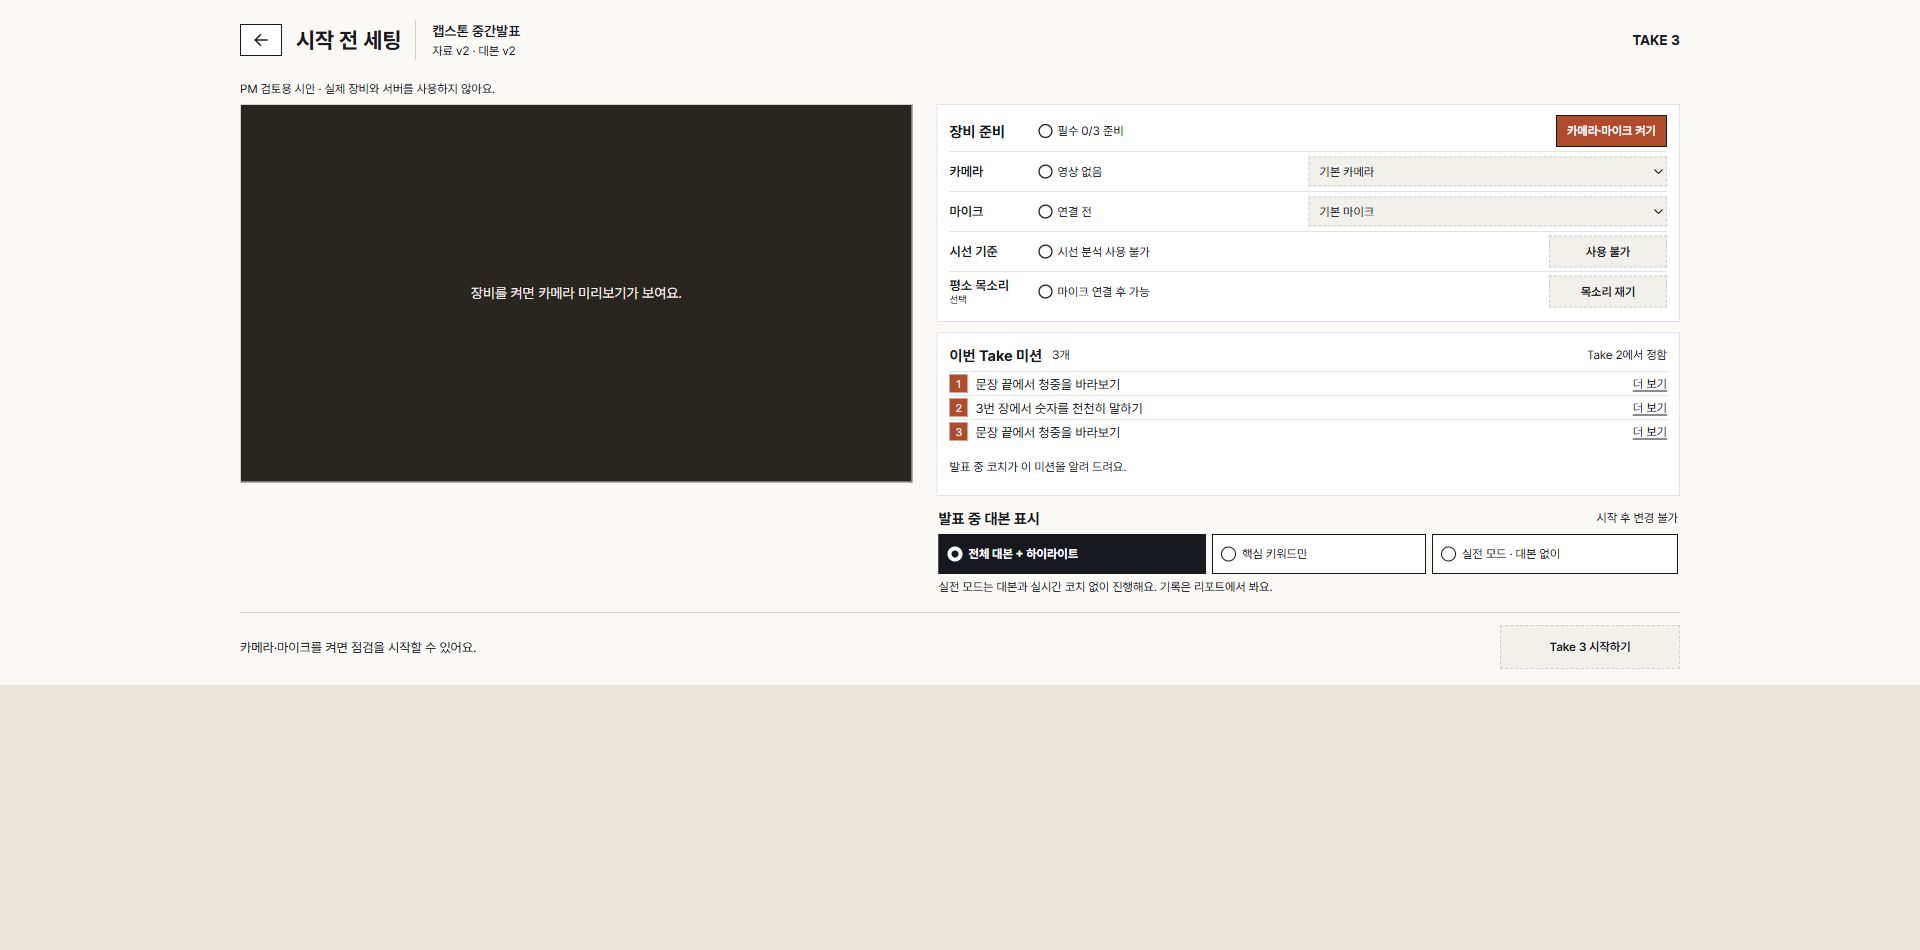
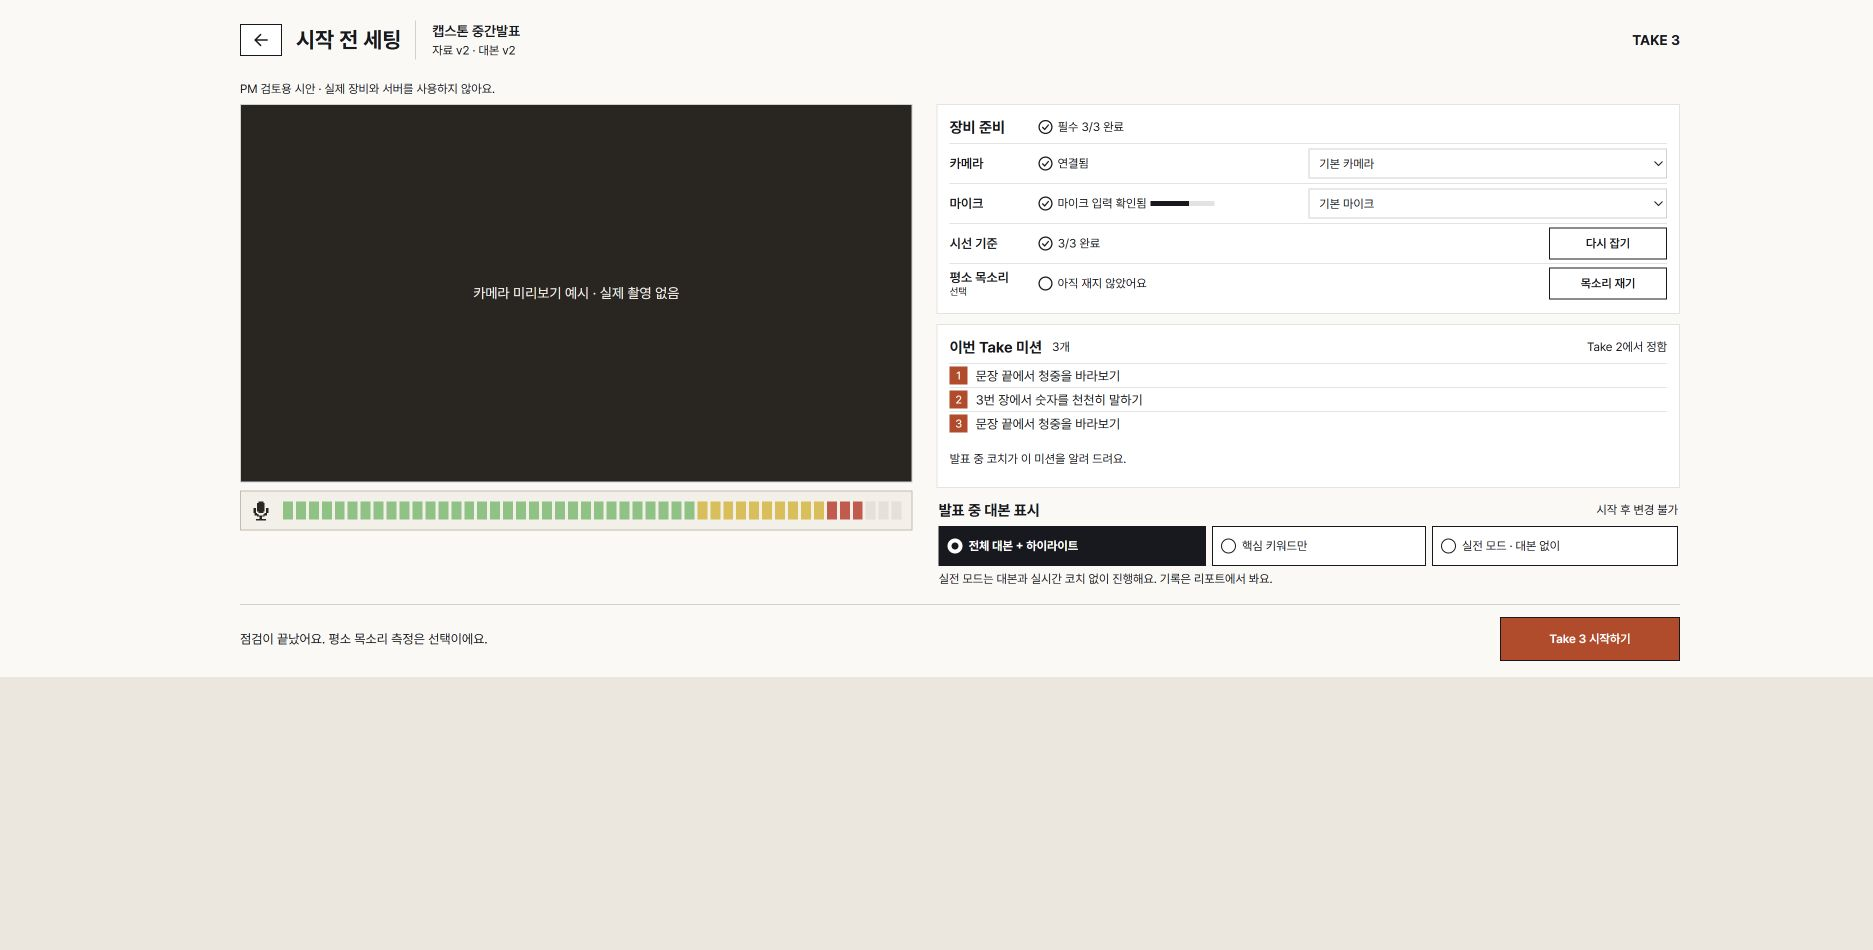
docs(fe): 준비 화면의 오디오 입력 레벨미터 시안을 추가한다

diff --git a/docs/fe/design/src/catalog.ts b/docs/fe/design/src/catalog.ts
@@ -286,6 +286,12 @@ const productScreens: GuideScreen[] = [
         '시안: 같은 폭의 선택창과 전체 이름 도움말을 확인한다.',
       ),
       state(
+        'audio-low',
+        '오디오 입력 작음',
+        '시안: 카메라 아래 미터의 앞쪽 일부만 채우는 작은 입력 예시.',
+      ),
+      state('audio-high', '오디오 입력 큼', '시안: 믹서형 초록·노랑·빨강까지 채우는 큰 입력 예시.'),
+      state(
         'exam',
         '실전 모드',
         '시안: 대본과 실시간 코치가 없음을 알리고 실전 화면 샘플로 이동한다.',
@@ -297,12 +303,15 @@ const productScreens: GuideScreen[] = [
       '장비 행은 항목명 → 원형 상태 표시·설명 → 필요한 조작부다. 선택/상태/버튼을 공통 4열로 강제하지 않는다.',
       '카메라와 마이크 선택창은 박스 중앙부터 오른쪽 끝까지 같은 폭이다. 아래 버튼은 118px로 짧게 두고 오른쪽 끝을 맞춘다.',
       '필수 준비 수는 제목 옆, 카메라·마이크 켜기는 오른쪽 위에 둔다. 평소 목소리는 선택이라고 표시한다.',
+      '카메라 바로 아래에 같은 폭의 낮은 오디오 입력 미터를 둔다. panel 면·얇은 line-strong 선·작은 픽셀 마이크 아이콘과 같은 높이의 세그먼트 한 줄만 사용한다. 제목·상태 글자·숫자·배지·조절 손잡이는 없다.',
+      '오디오 미터의 믹서형 초록→노랑→빨강은 형광 느낌만 줄인 시안 전용 제안색이다. 시선 전용 gaze 색·전역 토큰을 재사용하거나 바꾸지 않는다. 입력 예시는 상태 선택으로 바뀌고 자동 애니메이션은 없다.',
       '미션은 3개씩, 일반 카드 높이는 노트북 156px·데스크톱 164px다. 빈 미션 행은 만들지 않는다. 실제 잘릴 때만 더 보기로 전문을 연다.',
       '대본 표시 3개는 장비 연결 전에도 선택할 수 있다. 시작 중 고정 예시에서는 장치와 대본 표시를 잠근다.',
       '모든 상태는 독립 fixture다. 카메라·마이크·음성 측정·시선 보정·API·Take 생성을 실행하지 않는다. 시작은 기존 설계서 무대 샘플로만 이동한다.',
     ],
     components: [
       'PrepareDraftFrame',
+      'PrepareDraftAudioMeter',
       'PrepareDraftCheckCard',
       'PrepareDraftMissionCard',
       'PrepareDraftScriptMode',

diff --git a/docs/fe/design/src/screens/prepare-draft.css b/docs/fe/design/src/screens/prepare-draft.css
@@ -86,6 +86,55 @@
   width: 100%;
   aspect-ratio: 16 / 9;
 }
+.prepare-draft-camera-column {
+  display: flex;
+  min-width: 0;
+  flex-direction: column;
+  gap: 8px;
+}
+/* 승인된 입력 미터 제안색만 이 시안에 한정한다. 시선 상태색·전역 토큰과 별개다. */
+.prepare-draft-audio-meter {
+  --prepare-audio-panel: #f5f0e9;
+  --prepare-audio-line: #c6bcac;
+  --prepare-audio-ink: #2a2723;
+  --prepare-audio-off: #e8e1d7;
+  --prepare-audio-green: #78c57f;
+  --prepare-audio-amber: #e4bf45;
+  --prepare-audio-brick: #da5248;
+  display: flex;
+  width: 100%;
+  height: 40px;
+  align-items: center;
+  gap: 12px;
+  border: 1px solid var(--prepare-audio-line);
+  background: var(--prepare-audio-panel);
+  color: var(--prepare-audio-ink);
+  padding: 8px 10px;
+}
+.prepare-draft-audio-meter > svg {
+  flex-shrink: 0;
+}
+.prepare-draft-audio-track {
+  display: grid;
+  min-width: 0;
+  height: 18px;
+  flex: 1;
+  grid-template-columns: repeat(48, minmax(0, 1fr));
+  gap: 3px;
+  background: var(--prepare-audio-panel);
+}
+.prepare-draft-audio-track > span {
+  background: var(--prepare-audio-off);
+}
+.prepare-draft-audio-track > [data-active='true'][data-band='green'] {
+  background: var(--prepare-audio-green);
+}
+.prepare-draft-audio-track > [data-active='true'][data-band='amber'] {
+  background: var(--prepare-audio-amber);
+}
+.prepare-draft-audio-track > [data-active='true'][data-band='brick'] {
+  background: var(--prepare-audio-brick);
+}
 .prepare-draft-controls {
   display: flex;
   min-width: 0;

diff --git a/docs/fe/design/src/screens/PrepareLayoutDraft.tsx b/docs/fe/design/src/screens/PrepareLayoutDraft.tsx
@@ -3,6 +3,7 @@ import { PrepareDraftCheckCard } from '@/ui/PrepareDraftCheckCard';
 import { PrepareDraftFrame } from '@/ui/PrepareDraftFrame';
 import { PrepareDraftMissionCard } from '@/ui/PrepareDraftMissionCard';
 import { PrepareDraftScriptMode } from '@/ui/PrepareDraftScriptMode';
+import { PrepareDraftAudioMeter } from '@/ui/PrepareDraftAudioMeter';
 import type { ScriptMode } from '@/ui/ScriptModeChoice';
 import { prepareDraftFixture } from './prepareDraftFixtures';
 import { PITCH, type Navigate } from './shared';
@@ -86,12 +87,15 @@ function Draft({
         PM 검토용 시안 · 실제 장비와 서버를 사용하지 않아요.
       </p>
       <div className="prepare-draft-content">
-        <div className="prepare-draft-camera prepare-draft-camera-example">
-          <p>
-            {camera
-              ? '카메라 미리보기 예시 · 실제 촬영 없음'
-              : '장비를 켜면 카메라 미리보기가 보여요.'}
-          </p>
+        <div className="prepare-draft-camera-column">
+          <div className="prepare-draft-camera prepare-draft-camera-example">
+            <p>
+              {camera
+                ? '카메라 미리보기 예시 · 실제 촬영 없음'
+                : '장비를 켜면 카메라 미리보기가 보여요.'}
+            </p>
+          </div>
+          <PrepareDraftAudioMeter level={mic ? fixture.audioLevel : 0} />
         </div>
         <div className="prepare-draft-controls">
           <PrepareDraftCheckCard

diff --git a/docs/fe/design/src/ui/PrepareDraftAudioMeter.tsx b/docs/fe/design/src/ui/PrepareDraftAudioMeter.tsx
@@ -1,0 +1,36 @@
+/** 독립 시안의 입력 레벨 표시. 실제 마이크를 열거나 사용자가 음량을 조절하지 않는다. */
+export function PrepareDraftAudioMeter({ level }: { level: number }) {
+  const active = Math.round(Math.min(1, Math.max(0, level)) * 48);
+  return (
+    <div
+      className="prepare-draft-audio-meter"
+      role="meter"
+      aria-label="오디오 입력 레벨 예시"
+      aria-valuemin={0}
+      aria-valuemax={100}
+      aria-valuenow={Math.round((active / 48) * 100)}
+    >
+      <svg
+        width="20"
+        height="20"
+        viewBox="0 0 16 16"
+        fill="currentColor"
+        shapeRendering="crispEdges"
+        aria-hidden="true"
+      >
+        <path d="M6 1h4v1h1v7h-1v1H6V9H5V2h1ZM2 6h2v4h1v1h1v1h4v-1h1v-1h1V6h2v4h-1v2h-2v1H9v2h3v1H4v-1h3v-2H5v-1H3v-2H2Z" />
+      </svg>
+      <div className="prepare-draft-audio-track" aria-hidden="true">
+        {Array.from({ length: 48 }, (_, index) => (
+          <span key={index} data-band={band(index)} data-active={index < active} />
+        ))}
+      </div>
+    </div>
+  );
+}
+
+function band(index: number) {
+  if (index < 32) return 'green';
+  if (index < 42) return 'amber';
+  return 'brick';
+}

diff --git a/docs/fe/design/src/PrepareLayoutDraft.test.tsx b/docs/fe/design/src/PrepareLayoutDraft.test.tsx
@@ -159,3 +159,26 @@ it('shows start locks and exam navigation without starting a product take', asyn
   await click('Take 3 실전 모드로 시작');
   expect(navigate).toHaveBeenCalledWith('stage', 'exam');
 });
+
+it('fills and clears one row of equal segments from left to right using example input only', async () => {
+  for (const [state, active] of [
+    ['audio-low', 12],
+    ['audio-high', 45],
+    ['audio-low', 12],
+    ['mic-error', 0],
+  ] as const) {
+    await render(state);
+    const meter = host.querySelector('[role="meter"]')!;
+    const segments = [...meter.querySelectorAll('.prepare-draft-audio-track > span')];
+    expect(segments).toHaveLength(48);
+    expect(segments.map((segment) => segment.getAttribute('data-active'))).toEqual(
+      segments.map((_, index) => String(index < active)),
+    );
+    expect(meter.querySelectorAll('[data-band="green"]')).toHaveLength(32);
+    expect(meter.querySelectorAll('[data-band="amber"]')).toHaveLength(10);
+    expect(meter.querySelectorAll('[data-band="brick"]')).toHaveLength(6);
+    expect(meter.textContent).toBe('');
+    expect(meter.querySelector('input, button')).toBeNull();
+    expect(meter.querySelector('svg')).not.toBeNull();
+  }
+});

diff --git a/docs/fe/design/src/screens/prepareDraftFixtures.ts b/docs/fe/design/src/screens/prepareDraftFixtures.ts
@@ -7,6 +7,9 @@ export interface DraftPrepareInfo {
 }
 
 export function prepareDraftFixture(stateId: string) {
+  let audioLevel = 0.78;
+  if (stateId === 'audio-low') audioLevel = 0.24;
+  if (stateId === 'audio-high') audioLevel = 0.94;
   let count = 3;
   if (stateId === 'first-take' || stateId === 'empty') count = 0;
   if (stateId === 'one') count = 1;
@@ -36,6 +39,7 @@ export function prepareDraftFixture(stateId: string) {
           },
   };
   return {
+    audioLevel,
     camera: !disconnected,
     mic: !disconnected && stateId !== 'mic-error',
     gaze,

diff --git a/docs/fe/design/prepare-layout-review.md b/docs/fe/design/prepare-layout-review.md
@@ -1,6 +1,6 @@
 # 시작 전 세팅 · PM 검토 시안
 
-**디자인 검토 전용 · PM 승인 전.** 닫힌 제품 구현 PR #789를 대체한다. 이 변경은 `docs/fe/design/` 안의 문서와 독립 시안만 담는다. `frontend/` 제품 코드·테스트·설정은 변경하지 않는다. 기존 구현 커밋은 보존하지만 제품 반영 근거로 사용하지 않는다.
+**디자인 검토 전용 · PM 승인 전.** 닫힌 제품 구현 PR #789를 대체하는 준비 화면 시안은 #794에 추가했다. 이번에는 카메라 아래 오디오 레벨미터와 사용자 승인 팔레트를 문서·독립 시안에 반영한다. 변경 범위는 `docs/fe/design/` 안이며, `frontend/` 제품 코드·테스트·설정은 포함하지 않는다. 제품 반영은 별도 작업으로 다룬다.
 
 ## 검토할 디자인
 
@@ -9,6 +9,7 @@
 | 영역 | 시안의 결정 |
 | --- | --- |
 | 전체 | 카메라 자리 하나를 왼쪽, 장비·미션·대본 표시를 오른쪽에 둔다. 자체 제목과 시작 버튼을 쓴다. |
+| 오디오 입력 | 카메라 바로 아래에 같은 폭·40px 높이의 미터 패널을 둔다. 작은 픽셀 마이크 아이콘과 같은 높이의 좁은 직사각형 세그먼트 한 줄만 표시한다. |
 | 장비 행 | 항목명 바로 옆에 원형 상태 표시와 설명, 오른쪽 끝에 해당 조작만 둔다. 공통 4열로 나누지 않는다. |
 | 카메라·마이크 | 두 선택창을 박스 중앙부터 오른쪽 끝까지 같은 폭으로 늘린다. 긴 이름은 줄여 보이고 도움말로 전체 이름을 읽는다. |
 | 시선·목소리 | 버튼은 118px로 짧게 두되 선택창과 오른쪽 끝을 맞춘다. 평소 목소리는 선택 항목이다. |
@@ -38,7 +39,22 @@
 
 ## 독립 상태와 동작의 한계
 
-뷰어에서 `시작 전 세팅 · PM 검토 시안`을 고른다. 18개 상태는 `src/screens/prepareDraftFixtures.ts`의 고정 예시다. 버튼은 예시 상태 또는 설계서 샘플 화면만 바꾼다.
+뷰어에서 `시작 전 세팅 · PM 검토 시안`을 고른다. 20개 상태는 `src/screens/prepareDraftFixtures.ts`의 고정 예시다. 버튼은 예시 상태 또는 설계서 샘플 화면만 바꾼다.
+
+### 카메라 아래 오디오 미터
+
+입력 레벨을 왼쪽부터 채우고 비우는 믹서형 표시다. EQ 파형이나 사용자가 움직이는 볼륨 슬라이더가 아니다. 패널 바깥과 세그먼트 사이 바탕을 모두 서비스 panel `#F5F0E9`, 1px 테두리를 line-strong `#C6BCAC`, 작은 픽셀 마이크 아이콘을 ink `#2A2723`으로 고정한다. 제목·상태 문구·숫자·배지는 표시하지 않고, 픽셀 모양은 아이콘에만 사용한다.
+
+색은 형광 느낌을 줄인 **오디오 시안 전용 제안**이다. `.prepare-draft-audio-meter` 안의 `--prepare-audio-*` 변수로만 관리하며, 전역 `@theme`와 시선 전용 `gaze-*` 값은 바꾸지 않는다.
+
+| 용도 | 제안색 | 비활성 칸 대비 |
+| --- | --- | --- |
+| 앞쪽 초록 | `#78C57F` | 1.60:1 |
+| 중간 노랑 | `#E4BF45` | 1.37:1 |
+| 끝쪽 빨강 | `#DA5248` | 3.06:1 |
+| 비활성 칸 | `#E8E1D7` | — |
+
+48개 세그먼트는 모두 높이 18px이며 입력 예시에 따라 연속된 앞쪽 칸만 활성화한다. 미연결/입력 없음은 전부 꺼지고, `오디오 입력 작음`·일반 연결 상태·`오디오 입력 큼`에서 서로 다른 길이를 확인한다. 실제 마이크 권한·녹음·서버 호출은 없다. 자동 애니메이션이나 전환 효과를 사용하지 않아 reduced-motion 설정에서도 움직임이 없다. 화면 읽기 프로그램에는 읽기 전용 meter 역할과 예시 입력값을 제공한다.
 
 | 조작 | 시안에서 보이는 변화 | 실제로 하지 않는 일 |
 | --- | --- | --- |
